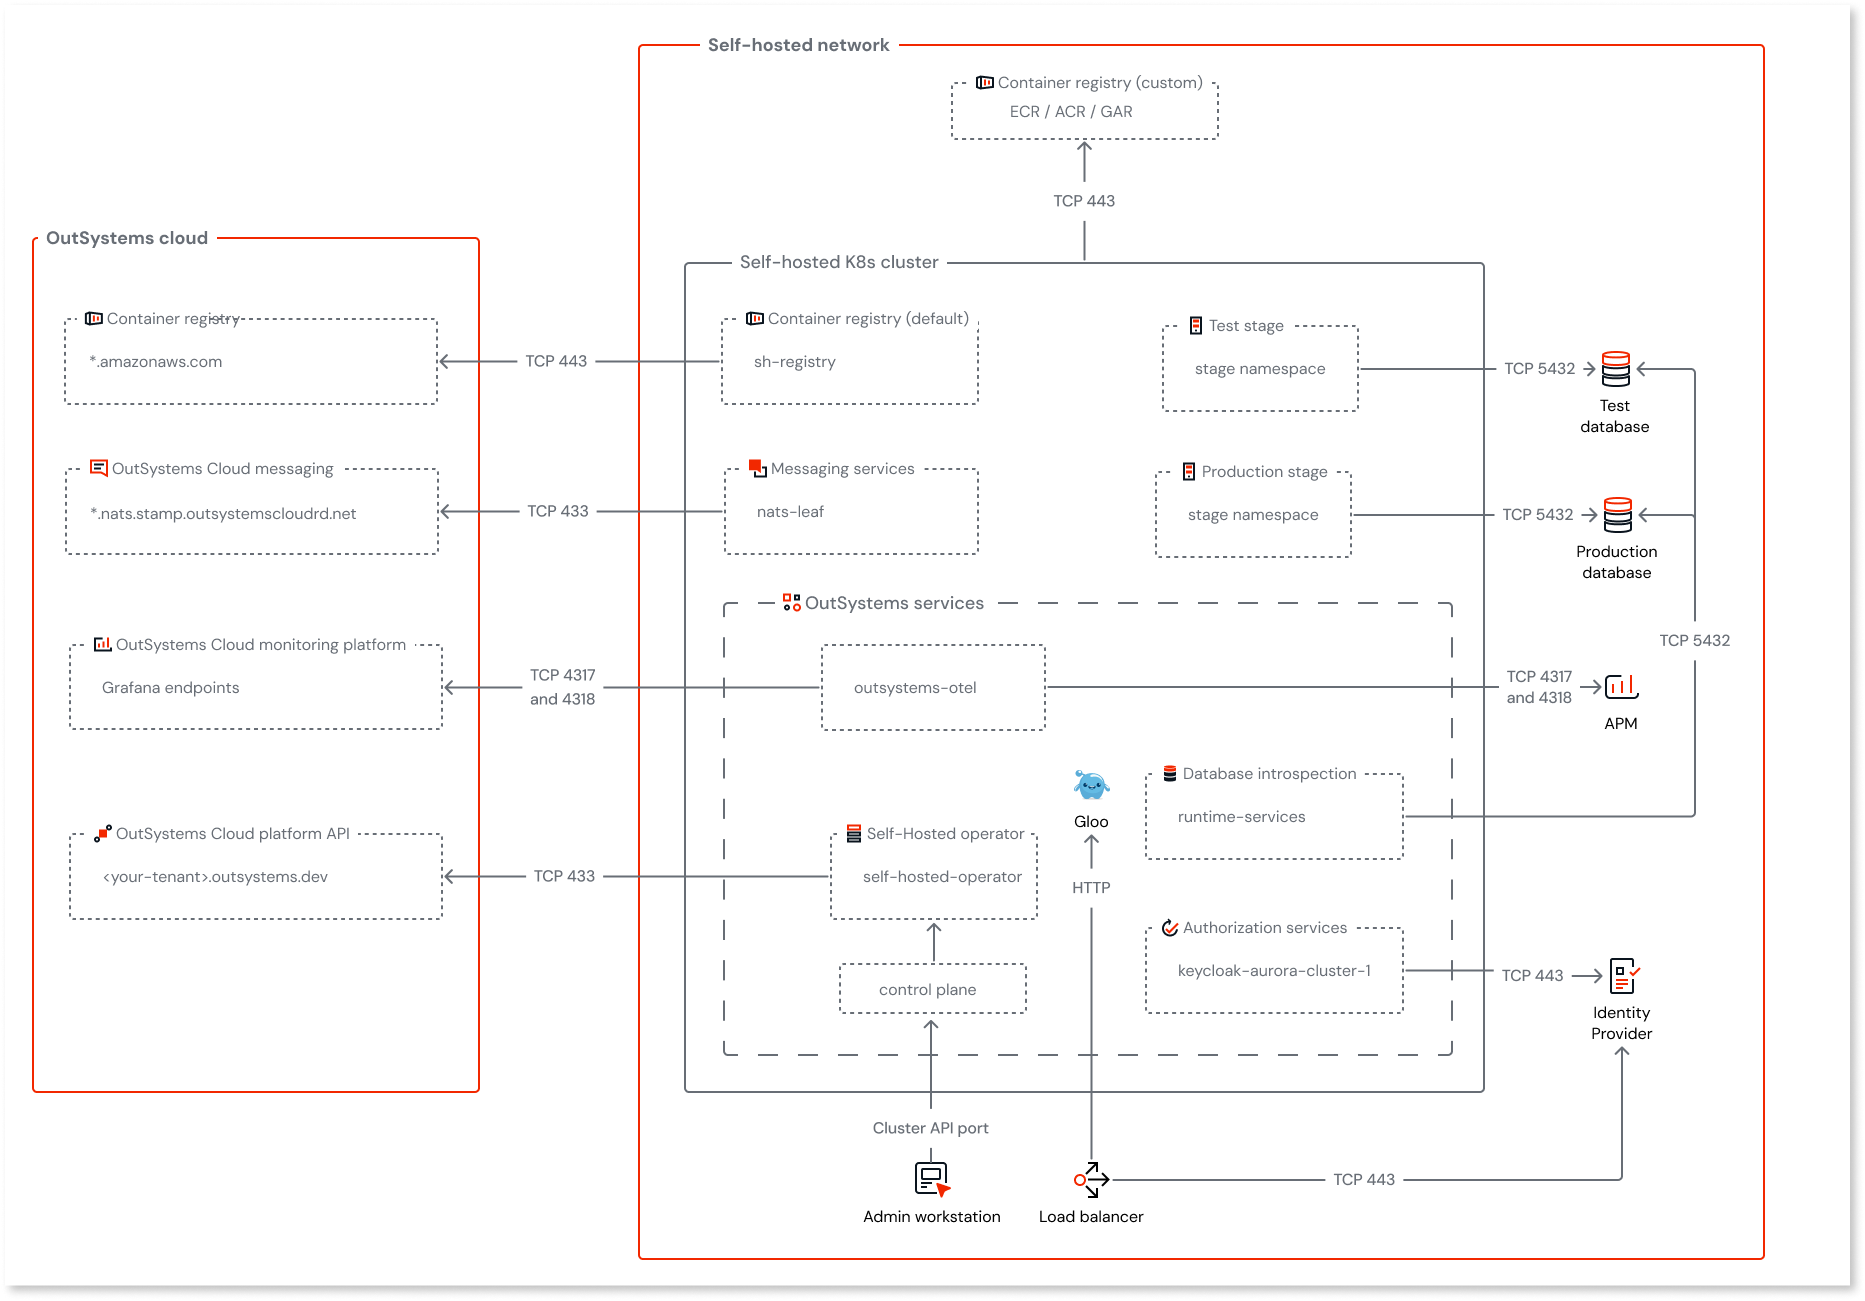
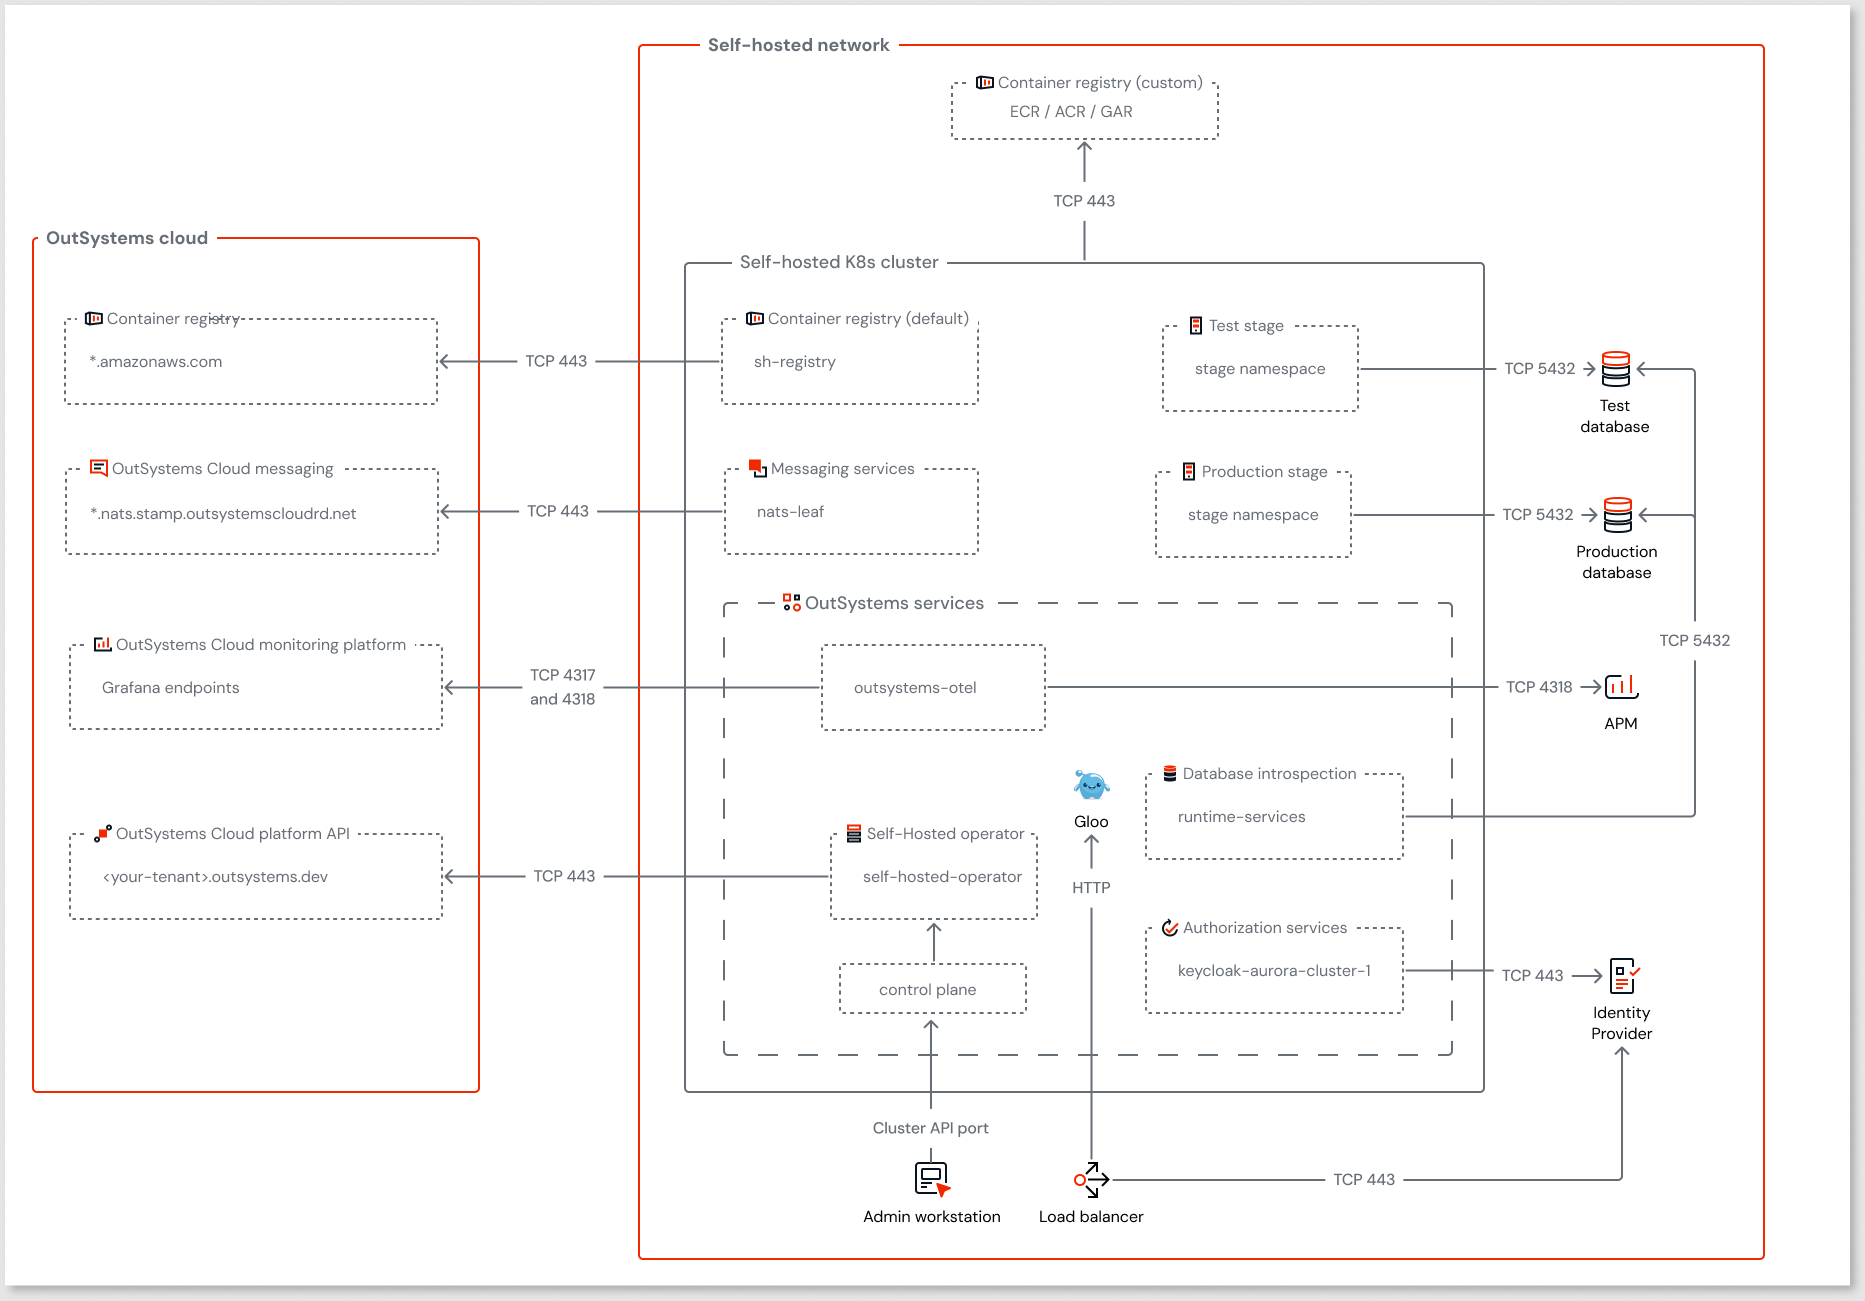
TK-23752 Fix self-hosted APM OTLP port in network requirements (#3406)

Changed region(s): [[0.0, 0.0, 1.0, 1.0], [0.8086, 0.4919, 0.8397, 0.5534]]

diff --git a/src/eap/manage-platform-app-lifecycle/self-hosted/sh-install-reqs.md b/src/eap/manage-platform-app-lifecycle/self-hosted/sh-install-reqs.md
@@ -49,7 +49,7 @@ The system requirements are:
 
 * An external OIDC identity provider (IdP) for end-user authentication across all stages, including the Development stage. Refer to [Identity providers in self-hosted tenants](../external-idps/intro.md#idp-self-hosted) for configuration requirements.
 
-* An app monitoring (APM) tool compatible with OpenTelemetry to receive logs and traces.
+* An app monitoring (APM) tool that supports OTLP over HTTP with Bearer token authentication, to receive logs and traces.
 
 * An OCI-compliant container registry. This is required for all platforms except OpenShift, which provides its internal registry. For full requirements and provider details, refer to [Set up the custom OCI registry for self-hosted stages](sh-registry.md).
 
@@ -88,7 +88,7 @@ The following table lists the details of the necessary outbound connectivity fro
 | Namespace: `self-hosted-operator` | `<your-tenant>.outsystems.dev` | TCP 443 | OutSystems Cloud platform API |
 | Namespace: `nats-leaf` | `*.nats.stamp.outsystemscloudrd.net` | TCP 443 | OutSystems Cloud messaging |
 | Namespace: `outsystems-otel` | `https://logs-prod-036.grafana.net` <br/>`https://tempo-prod-26-prod-us-east-2.grafana.net` <br/>`https://prometheus-prod-56-prod-us-east-2.grafana.net` | TCP 4317 and 4318 | OutSystems Cloud monitoring platform |
-| Namespace: `outsystems-otel` | The address of the APM you manage | TCP 4317 and 4318 | Self-hosted APM |
+| Namespace: `outsystems-otel` | The address of the APM you manage | TCP 4318 by default, or the port you set in the endpoint address | Self-hosted APM |
 | Namespace `keycloak-aurora-cluster-1` | The address of the IDP you manage | TCP 443 | Self-hosted IDP |
 | Stage namespace | Stage database address defined during setup | TCP 5432 | Self-hosted stage database |
 | Namespace: `runtime-services` | All the stage’s database addresses defined during setup | TCP 5432 | Introspection over all self-hosted stage databases |
@@ -112,7 +112,7 @@ The following table lists the details of the necessary outbound connectivity fro
 
 * **OutSystems Cloud monitoring platform:** Destination for logs, traces, and metrics generated by your self-hosted ODC services.  These endpoints use Grafana endpoints that don't have a fixed IP address, but Grafana has public DNS lookup services to resolve the hostnames. You could leverage this DNS lookup with your cluster's network policies to only allow outbound access from your cluster to the resolved IPs. This telemetry data is used exclusively by OutSystems to monitor platform health, proactively detect issues, and assist with troubleshooting. OutSystems doesn't collect your end-user data or business-logic data, and doesn't monitor your underlying Kubernetes cluster or hardware infrastructure. Both remain entirely under your control.
 
-* **Self-hosted APM:** This is the address of your APM tool of choice and it’s configured during setup [in this step](install-sh.md#setup-configurator). It’s the local destination for logs, traces and metrics generated by your self-hosted ODC apps.
+* **Self-hosted APM:** This is the address of your APM tool of choice and it’s configured during setup [in this step](install-sh.md#setup-configurator). It’s the local destination for logs, traces and metrics generated by your self-hosted ODC apps. Self-hosted ODC supports OTLP over HTTP, and connects on the port specified in the endpoint address, port 4318 by default.
 
 * **Self-hosted IDP:** This is the address of the identity provider (IDP) you manage, used for authentication and authorization services across your apps. Its address is provided to your Self-hosted ODC setup [in this step](install-sh.md#setup-idps).
 

diff --git a/src/eap/manage-platform-app-lifecycle/self-hosted/install-sh.md b/src/eap/manage-platform-app-lifecycle/self-hosted/install-sh.md
@@ -186,7 +186,7 @@ To install services on your self-hosted cluster, follow these steps:
 1. When the installation is complete, click **Next** to continue. The wizard will proceed to **Configure cluster** and for the Application Performance Monitoring configuration.
 
 1. Configure the Application Performance Monitoring (APM) integration:
-    1. Enter the **APM endpoint server** and **Token** for your OpenTelemetry-compatible tool.
+    1. Enter the **APM endpoint server** and **Token** for your APM tool. The tool must support OTLP over HTTP with Bearer token authentication.
     1. Click **Test connection**. When the test succeeds, click **Next**.
 
         ![Configure Cluster step with fields for APM endpoint server and token, a Test connection button, and a Next button.](images/configure-apm-shc.png "Configure APM tool for the cluster")
